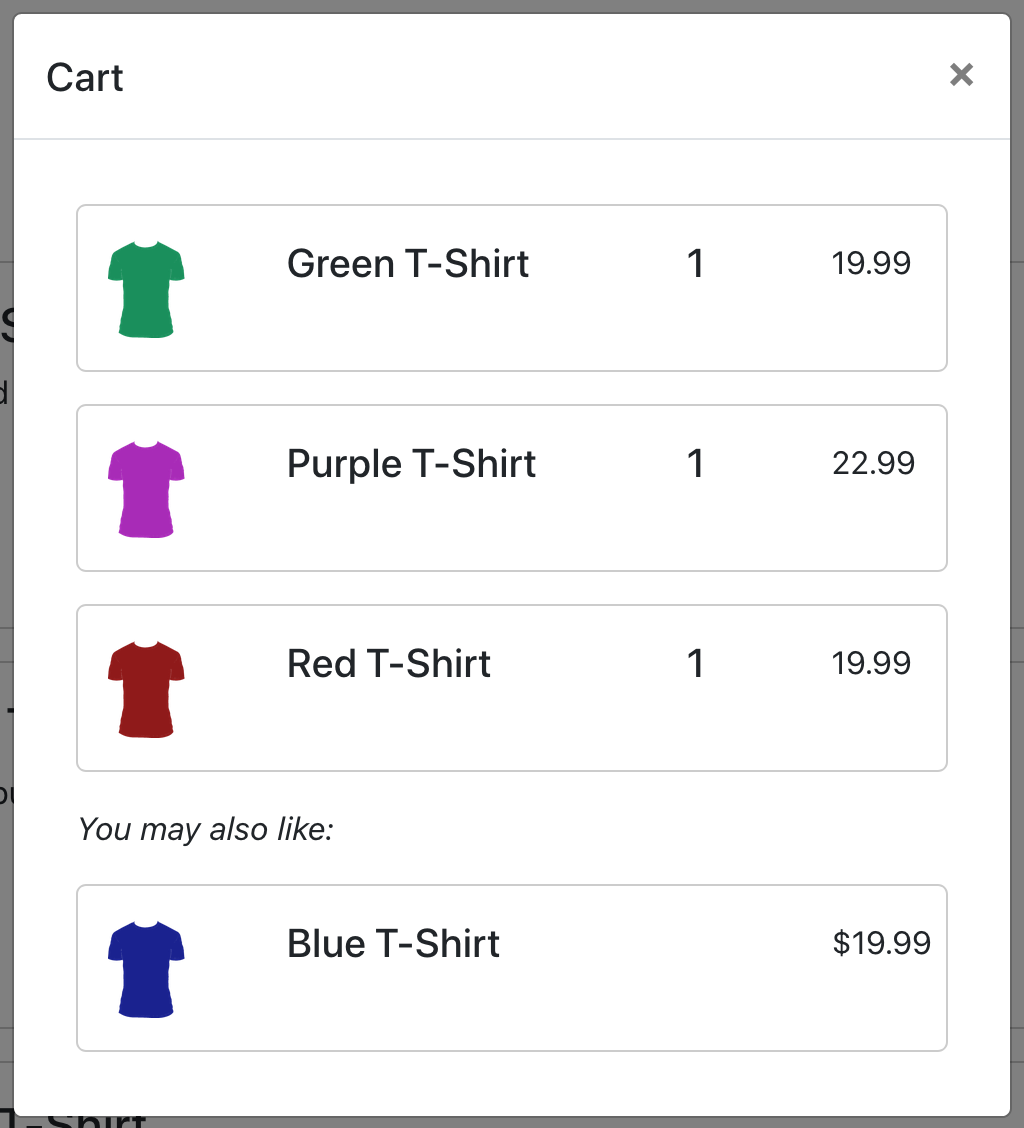
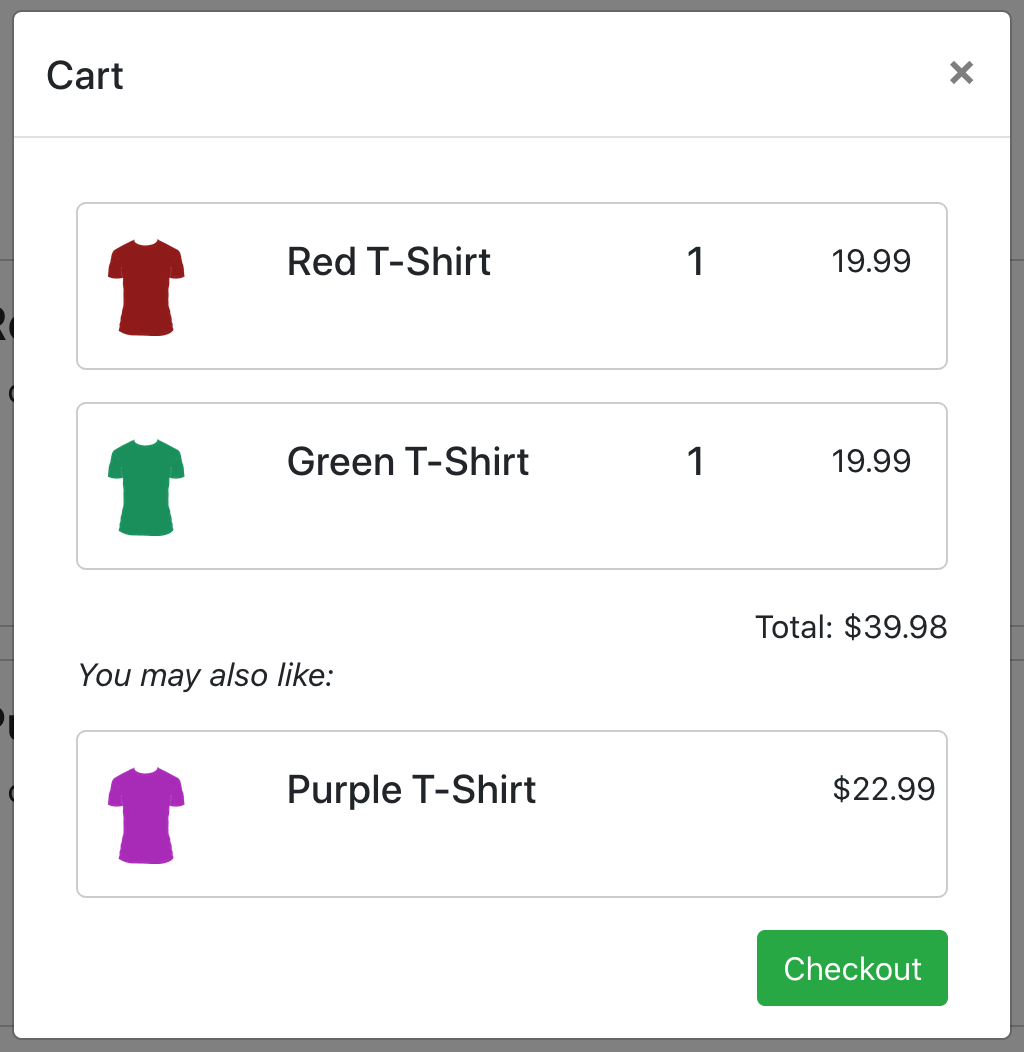
Add total row and checkout button

diff --git a/code/src/components/cart/Cart.js b/code/src/components/cart/Cart.js
@@ -1,17 +1,29 @@
 import React, { useContext } from 'react';
 import CartProductList from './CartProductList';
+import CartCheckoutRow from './CartCheckoutRow';
+import CartTotalRow from './CartTotalRow';
 import RecommendedProduct from './RecommendedProduct';
 import CartContext from '../../context/CartContext';
 
 const Cart = () => {
   const { cart } = useContext(CartContext);
 
+  if (cart &&  cart.total_unique_items > 0) {
+    return (
+      <div className="container cart">
+        <CartProductList cart={cart} />
+        <CartTotalRow cart={cart} />
+        <RecommendedProduct cart={cart} />
+        <CartCheckoutRow />
+      </div>
+    );
+  }
+
   return (
-    <>
-      <CartProductList cart={cart} />
-      <RecommendedProduct cart={cart} />
-    </>
-  );
+    <div className="container cart">
+      <p>Your cart is currently empty.</p>
+    </div>
+  )
 }
 
 export default Cart;

diff --git a/code/src/components/cart/CartProductList.js b/code/src/components/cart/CartProductList.js
@@ -2,23 +2,11 @@ import React from 'react';
 import CartProductRow from './CartProductRow';
 
 const CartProductList = ({ cart }) => {
-  if (cart && cart.total_unique_items > 0) {
-    return (
-      <div className="container cart-products">
-        {
-          cart.line_items.map(line_item => {
-            return <CartProductRow key={line_item.id} lineItem={line_item} />
-          })
-        }
-      </div>
-    );
-  }
-
   return (
-    <div className="container cart-products">
-      <p>Your cart is currently empty.</p>
-    </div>
-  )
+    cart.line_items.map(line_item => {
+      return <CartProductRow key={line_item.id} lineItem={line_item} />
+    })
+  );
 }
 
 export default CartProductList;

diff --git a/code/src/components/cart/RecommendedProduct.js b/code/src/components/cart/RecommendedProduct.js
@@ -17,9 +17,9 @@ const RecommendedProduct = ({ cart }) => {
     });
   }, [])
 
-  if (cart.total_unique_items > 0 && recommendedProduct) {
+  if (recommendedProduct) {
     return (
-      <div class="container">
+      <>
         <div class="row">
           <div class="col-md-12">
             <i>You may also like:</i>
@@ -36,7 +36,7 @@ const RecommendedProduct = ({ cart }) => {
             {recommendedProduct.price.formatted_with_symbol}
           </div>
         </div>
-      </div>
+      </>
     );
   }
 

diff --git a/code/src/components/cart/CartCheckoutRow.js b/code/src/components/cart/CartCheckoutRow.js
@@ -1,0 +1,15 @@
+import React from 'react';
+
+const CartCheckoutRow = () => {
+  return (
+    <div className="row">
+      <div className="col-md-12 text-right">
+        <button className="btn btn-success">
+          Checkout
+        </button>
+      </div>
+    </div>
+  );
+}
+
+export default CartCheckoutRow;

diff --git a/code/src/components/cart/CartTotalRow.js b/code/src/components/cart/CartTotalRow.js
@@ -1,0 +1,13 @@
+import React from 'react';
+
+const CartTotalRow = ({ cart }) => {
+  return (
+    <div className="row">
+      <div className="col-md-12 text-right">
+        Total: {cart.subtotal.formatted_with_symbol}
+      </div>
+    </div>
+  );
+}
+
+export default CartTotalRow;

diff --git a/README.md b/README.md
@@ -167,7 +167,7 @@ Next we'll use the context to display the contents of the cart.
 
 ## Display the cart
 
-As mentioned above, the cart will be displayed in a modal dialog that is contained inside the `Nav` component. The component hierarchy will also include a wrapper for the entire cart, a list of cart products and a component for each line item in the cart.
+As mentioned above, the cart will be displayed in a modal dialog that is contained inside the `Nav` component. The component hierarchy will also include a wrapper for the entire cart, a list of cart products, a component for each line item in the cart and rows for the cart total and checkout button.
 
 The cart with products in will look something like the image below.
 
@@ -232,22 +232,37 @@ Next we'll create the cart component itself in the file `src/components/cart/Car
 ```
 import React, { useContext } from 'react';
 import CartProductList from './CartProductList';
+import CartCheckoutRow from './CartCheckoutRow';
+import CartTotalRow from './CartTotalRow';
 import CartContext from '../../context/CartContext';
 
 const Cart = () => {
   const { cart } = useContext(CartContext);
 
+  if (cart &&  cart.total_unique_items > 0) {
+    return (
+      <div className="container cart">
+        <CartProductList cart={cart} />
+        <CartTotalRow cart={cart} />
+        <CartCheckoutRow />
+      </div>
+    );
+  }
+
   return (
-    <CartProductList cart={cart} />
-  );
+    <div className="container cart">
+      <p>Your cart is currently empty.</p>
+    </div>
+  )
 }
 
 export default Cart;
+
 ```
 
-This again consumes the cart context and passes the `cart` object to the product list as a prop.
+This again consumes the cart context and passes the `cart` object to the product list and total row as a prop. If there are no line items yet it will render a message that the cart is empty.
 
-The cart product list will loop over the line items from the cart and render a row for each. If there are no line items yet it will render a message that the cart is empty.
+The cart product list will loop over the line items from the cart and render a row for each.
 
 *src/components/cart/CartProductList.js*
 ```
@@ -255,23 +270,11 @@ import React from 'react';
 import CartProductRow from './CartProductRow';
 
 const CartProductList = ({ cart }) => {
-  if (cart && cart.total_unique_items > 0) {
-    return (
-      <div className="container cart-products">
-        {
-          cart.line_items.map(line_item => {
-            return <CartProductRow key={line_item.id} lineItem={line_item} />
-          })
-        }
-      </div>
-    );
-  }
-
   return (
-    <div className="container cart-products">
-      <p>Your cart is currently empty.</p>
-    </div>
-  )
+    cart.line_items.map(line_item => {
+      return <CartProductRow key={line_item.id} lineItem={line_item} />
+    })
+  );
 }
 
 export default CartProductList;
@@ -306,6 +309,44 @@ export default CartProductRow;
 ```
 
 The `line_item` has many properties that are similar to a standard product with the addition of a `quantity` and `line_total`, which is the price of the product multiplied by the quantity.
+
+We also have components to display the current cart total and a checkout button.
+
+*src/components/cart/CartTotalRow.js*
+```
+import React from 'react';
+
+const CartTotalRow = ({ cart }) => {
+  return (
+    <div className="row">
+      <div className="col-md-12 text-right">
+        Total: {cart.subtotal.formatted_with_symbol}
+      </div>
+    </div>
+  );
+}
+
+export default CartTotalRow;
+```
+
+*src/components/cart/CartCheckoutRow.js*
+```
+import React from 'react';
+
+const CartCheckoutRow = () => {
+  return (
+    <div className="row">
+      <div className="col-md-12 text-right">
+        <button className="btn btn-success">
+          Checkout
+        </button>
+      </div>
+    </div>
+  );
+}
+
+export default CartCheckoutRow;
+```
 
 This cart isn't very interesting yet so let's look at how to add products to it.
 
@@ -493,9 +534,9 @@ const RecommendedProduct = ({ cart }) => {
     });
   }, [])
 
-  if (cart.total_unique_items > 0 && recommendedProduct) {
+  if (recommendedProduct) {
     return (
-      <div class="container">
+      <>
         <div class="row">
           <div class="col-md-12">
             <i>You may also like:</i>
@@ -512,7 +553,7 @@ const RecommendedProduct = ({ cart }) => {
             {recommendedProduct.price.formatted_with_symbol}
           </div>
         </div>
-      </div>
+      </>
     );
   }
 
@@ -542,20 +583,20 @@ const cartProductIds = cart.line_items.map(line_item => line_item.product_id);
 Then it is retrieving the list of products and searching it for a product that isn't in the cart so that we don't recommend something that the shopper has already added. This is happening in a `useEffect` call so that it refreshes whenever the component is rendered, e.g. when the cart changes. Note the use of the `some` method on the array of products in `result.data`. `some` is useful in this case because it ends the loop the first time the function it is passed returns `true`, so we stop looping as soon as we find a product that isn't in the cart.
 
 ```
-  useEffect(() => {
-    commerce.products.list().then((result) => {
-      setRecommendedProduct(false);
-      result.data.some((product) => {
-        if (!cartProductIds.includes(product.id)) {
-          setRecommendedProduct(product);
-          return true;
-        }
-      });
+useEffect(() => {
+  commerce.products.list().then((result) => {
+    setRecommendedProduct(false);
+    result.data.some((product) => {
+      if (!cartProductIds.includes(product.id)) {
+        setRecommendedProduct(product);
+        return true;
+      }
     });
-  }, [])
+  });
+}, [])
 ```
 
-Finally, if a recommended product exists, and if there are items in the cart (we don't want recommendations on empty carts) it will display the product details. In a real system you would want to implement a link to the product and an add to cart button here but we won't go that for for the purposes of this illustration.
+Finally, if a recommended product exists it will display the product details. In a real system you would want to implement a link to the product and an add to cart button here but we won't go that for for the purposes of this illustration.
 
 The recommendation should look something like the image below.
 
